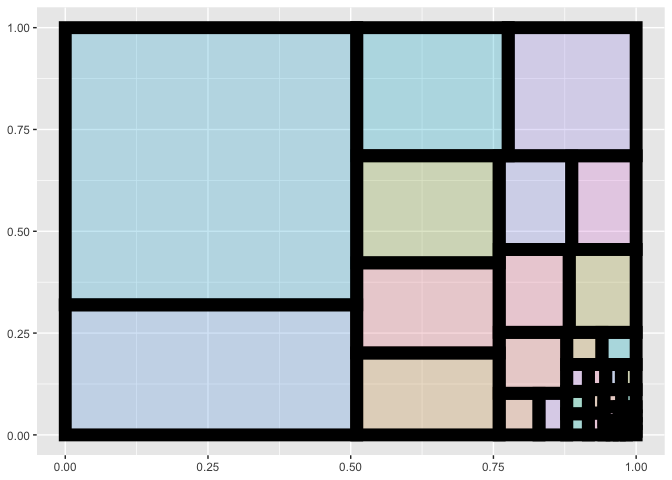
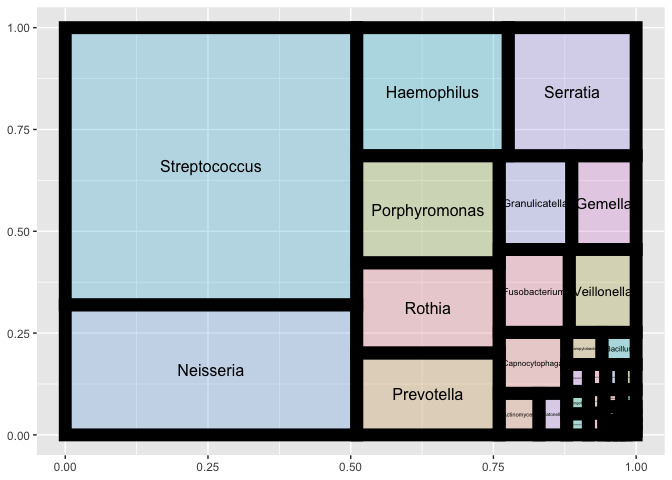
Handles Excel files based on new Oct 2022 web raw data format.

diff --git a/README.md b/README.md
@@ -34,6 +34,8 @@ including the top header row.
 Copy/paste that Bristle raw data. You can either use it interactively
 with the function `bristler::clip_bristle_table()` or save it to a
 Microsoft Excel file and read with `bristler::read_bristle_table()`.
+(Note: as of the new raw format in Oct 2022, we recommend you save to
+Excel first, then manually ensure the first row is the correct headings)
 
 Read that data into R:
 
@@ -43,7 +45,7 @@ library(tidyverse)
 #> ── Attaching packages ─────────────────────────────────────── tidyverse 1.3.2 ──
 #> ✔ ggplot2 3.3.6      ✔ purrr   0.3.4 
 #> ✔ tibble  3.1.8      ✔ dplyr   1.0.10
-#> ✔ tidyr   1.2.0      ✔ stringr 1.4.1 
+#> ✔ tidyr   1.2.1      ✔ stringr 1.4.1 
 #> ✔ readr   2.1.2      ✔ forcats 0.5.2 
 #> ── Conflicts ────────────────────────────────────────── tidyverse_conflicts() ──
 #> ✖ dplyr::filter() masks stats::filter()
@@ -89,7 +91,8 @@ s1 %>% dplyr::group_by(label) %>%
   # add fill and borders for groups and subgroups
   geom_rect(aes(fill = color, size = primary_group),
             show.legend = FALSE, color = "black", alpha = .3) +
-  scale_fill_identity()
+  scale_fill_identity() +
+    ggfittext::geom_fit_text(aes(label = genus), min.size = 1) 
 ```
 
 <img src="man/figures/README-plotforanimation-1.png" width="100%" />
